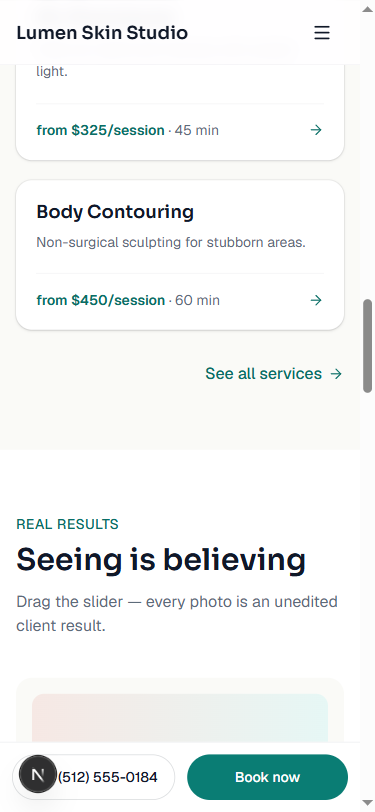
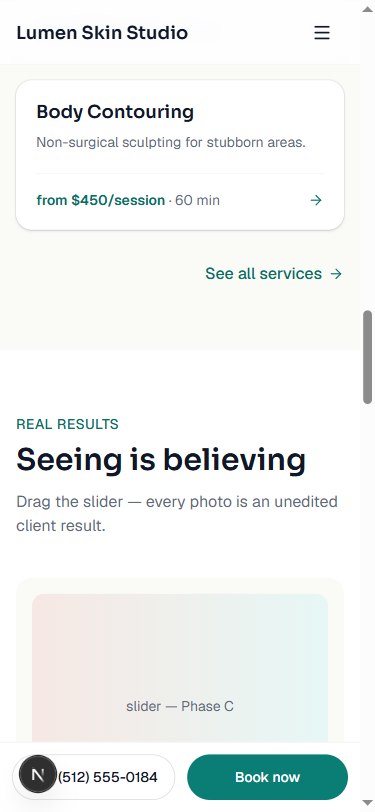
Section 03 polish pass: 44px CTA touch target, CMS-safe text wrapping
Full SS12-03 QA ritual re-run on real renders: 375/768/1440/1920,
keyboard walk (9 stops, focus-visible + Enter activation), hover state,
reduced-motion emulation, overflow checks; tsc/lint/build clean.
QA evidence refreshed and expanded under docs/qa/section-03/.

diff --git a/src/components/sections/ServicesGrid.tsx b/src/components/sections/ServicesGrid.tsx
@@ -46,10 +46,12 @@ export default function ServicesGrid() {
                     Popular
                   </span>
                 )}
-                <h3 className={cn("text-lg leading-snug font-semibold", s.popular && "pr-20")}>
+                <h3
+                  className={cn("text-lg leading-snug font-semibold text-balance", s.popular && "pr-20")}
+                >
                   {s.name}
                 </h3>
-                <p className="mt-1.5 mb-5 text-sm leading-relaxed text-muted">
+                <p className="mt-1.5 mb-5 text-sm leading-relaxed text-pretty text-muted">
                   {s.shortDescription}
                 </p>
                 <div className="mt-auto flex items-center justify-between gap-2 border-t border-ink/5 pt-4">
@@ -71,9 +73,10 @@ export default function ServicesGrid() {
 
       {ctaLabel && ctaHref && (
         <div className="mt-8 flex justify-end">
+          {/* Padding + negative margin = a ≥44px touch target without moving the text. */}
           <Link
             href={ctaHref}
-            className="group inline-flex items-center gap-1.5 rounded-full font-medium text-accent-deep focus-visible:outline-none focus-visible:ring-2 focus-visible:ring-accent-ink focus-visible:ring-offset-2"
+            className="group -mx-2 -my-2.5 inline-flex items-center gap-1.5 rounded-full px-2 py-2.5 font-medium text-accent-deep focus-visible:outline-none focus-visible:ring-2 focus-visible:ring-accent-ink"
           >
             {ctaLabel}
             <ArrowRight
